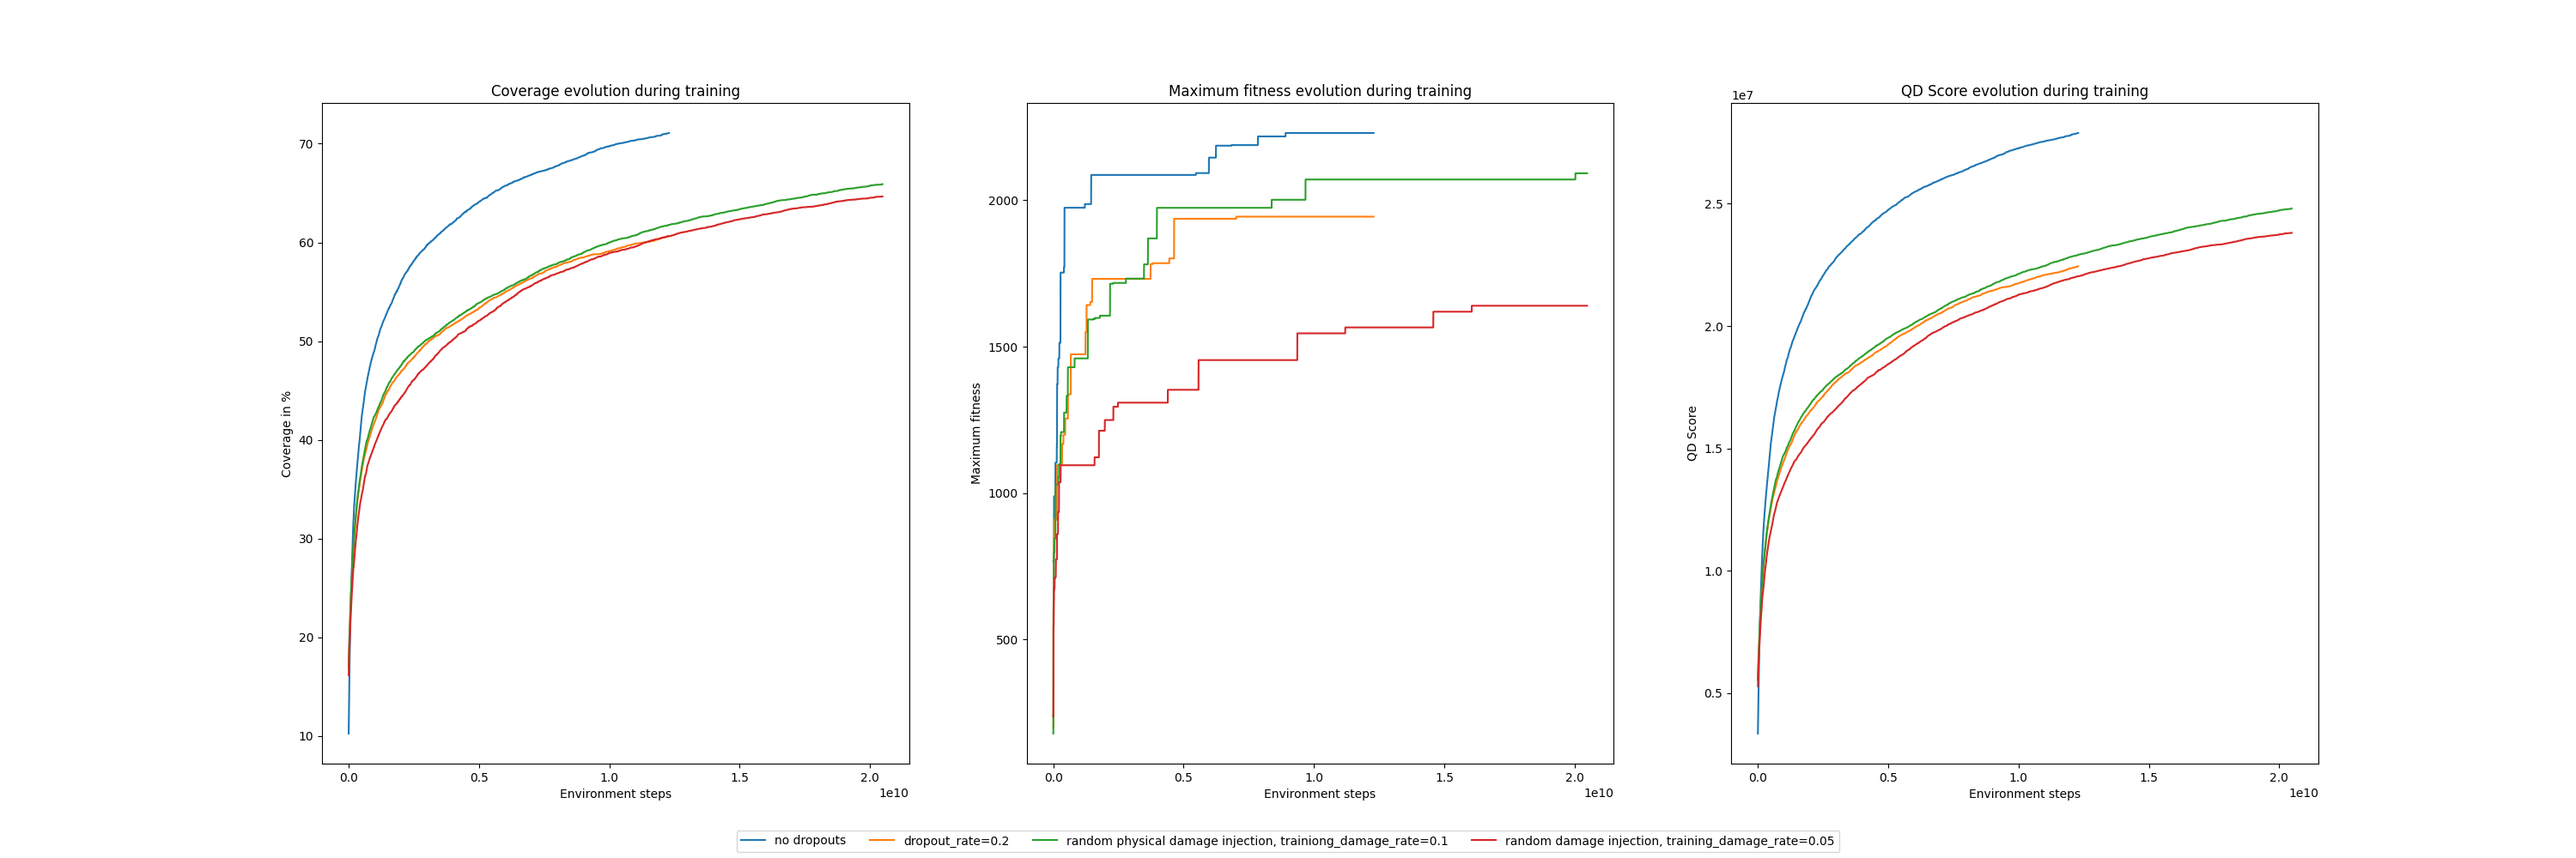
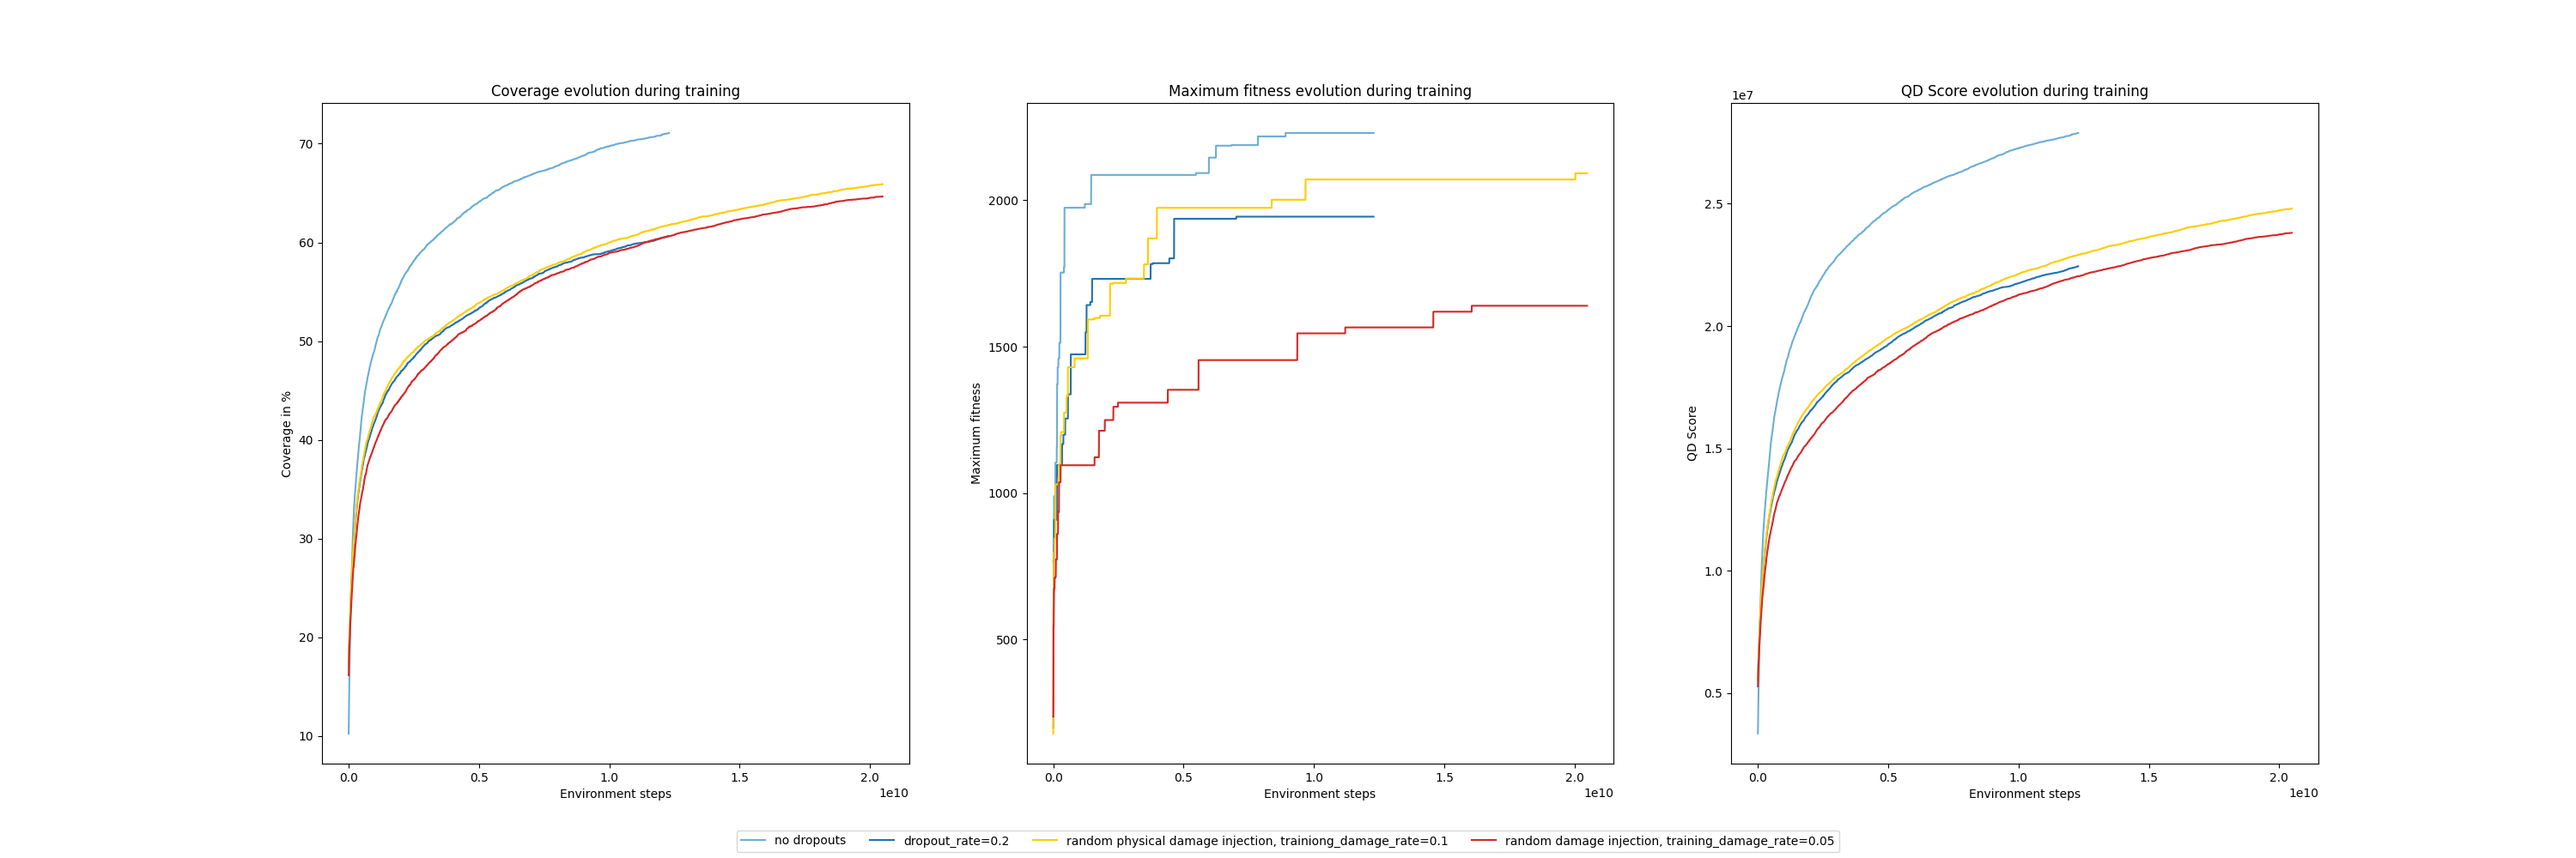
add color for evaluation highlighting

diff --git a/utils/evaluation.py b/utils/evaluation.py
@@ -6,12 +6,29 @@ import numpy as np
 
 from util import load_json
 
+baseline_colors = [
+    "#c6dbef",  # light blue
+    "#9ecae1",  # medium light
+    "#6baed6",  # mid blue
+    "#4292c6",  # strong blue
+    "#2171b5",  # dark blue
+    "#084594",  # very dark blue
+]
+
+main_colors = [
+    "#ffcc00",  # vivid yellow
+    "#f1c40f",  # golden yellow 
+    "#d62728", # highlight red
+]
+
 def box_plot_performace(
     exp_paths: List[str],
+    exp_desc: List[str],
 ) -> None:
     """
     args: 
         - exp_paths: experiment directories in list format
+        - exp_desc: experiment descriptions in list format
     """
     plt.boxplot()
     plt.savefig("evaluations/performance_box_plot.png")
@@ -20,10 +37,12 @@ def box_plot_performace(
 def eval_training_metrics(
     exp_paths: List[str],
     exp_desc: List[str],
+    exp_colors: List[str],
 ) -> None:
     """
     args: 
         - exp_paths: experiment directories in list format
+        - exp_desc: experiment descriptions in list format
     """
 
     fig, axes = plt.subplots(nrows=1, ncols=3, figsize=(30, 10))
@@ -46,9 +65,9 @@ def eval_training_metrics(
         args = load_json(exp_path, "running_args.json")
         env_steps = np.arange(args["num_iterations"] + 1) * args["episode_length"] * args["batch_size"]
         
-        axes[0].plot(env_steps, metrics["coverage"], label=exp_desc[i])
-        axes[1].plot(env_steps, metrics["max_fitness"])
-        axes[2].plot(env_steps, metrics["qd_score"])
+        axes[0].plot(env_steps, metrics["coverage"], label=exp_desc[i], color=exp_colors[i])
+        axes[1].plot(env_steps, metrics["max_fitness"], color=exp_colors[i])
+        axes[2].plot(env_steps, metrics["qd_score"], color=exp_colors[i])
 
     fig.legend(loc='lower center', ncol=len(exp_desc))
     plt.savefig("evaluations/training_metrics_comparison.png")
@@ -70,4 +89,11 @@ if __name__ == "__main__":
         "random damage injection, training_damage_rate=0.05"
     ]
 
-    eval_training_metrics(exp_paths, exp_desc)
+    exp_colors = [
+        baseline_colors[2],
+        baseline_colors[4],
+        main_colors[0],
+        main_colors[2],
+    ]
+
+    eval_training_metrics(exp_paths, exp_desc, exp_colors)
